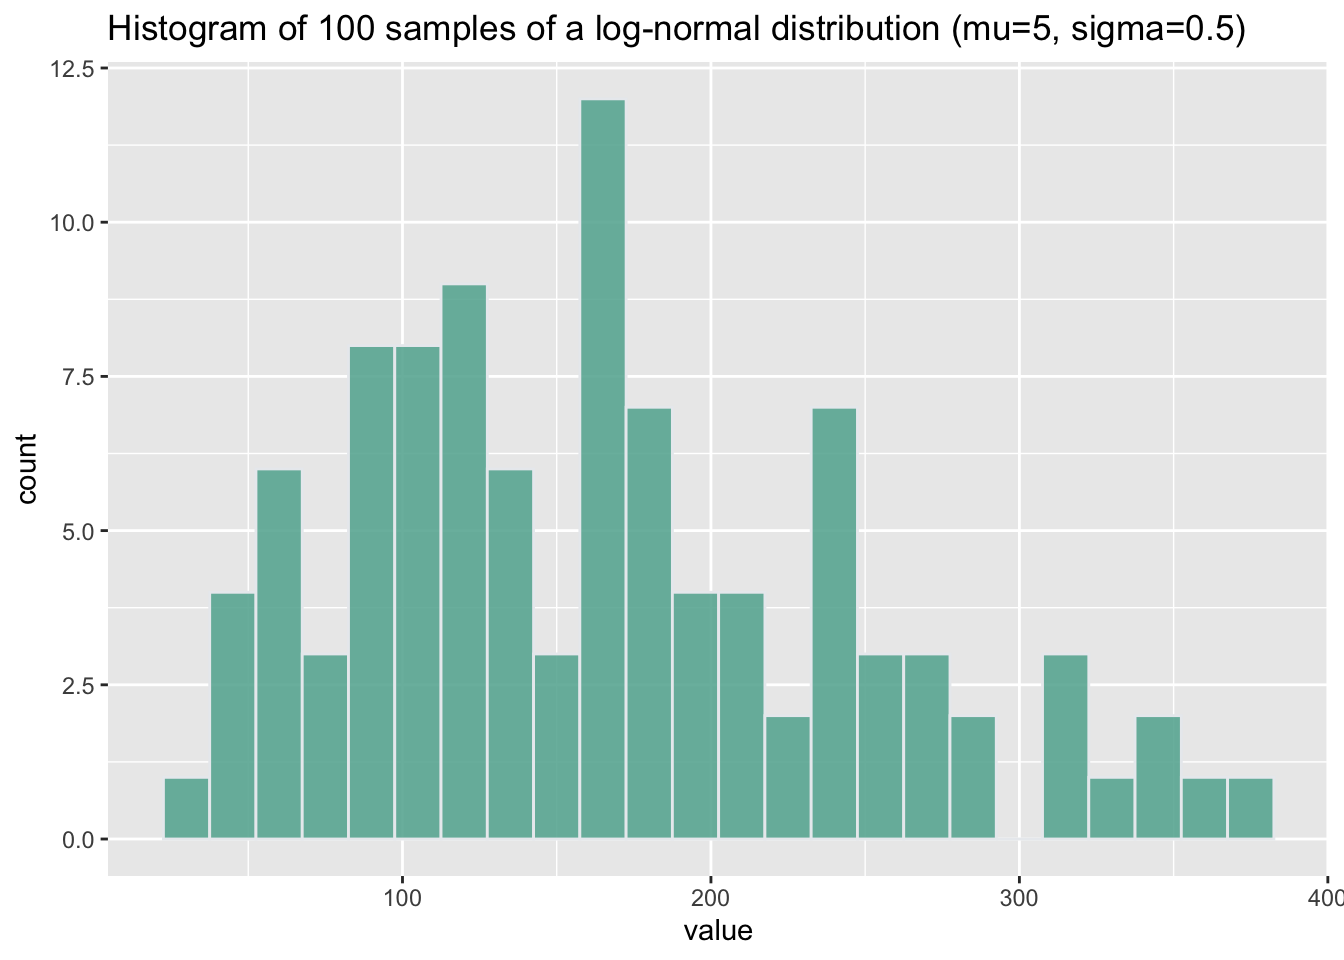
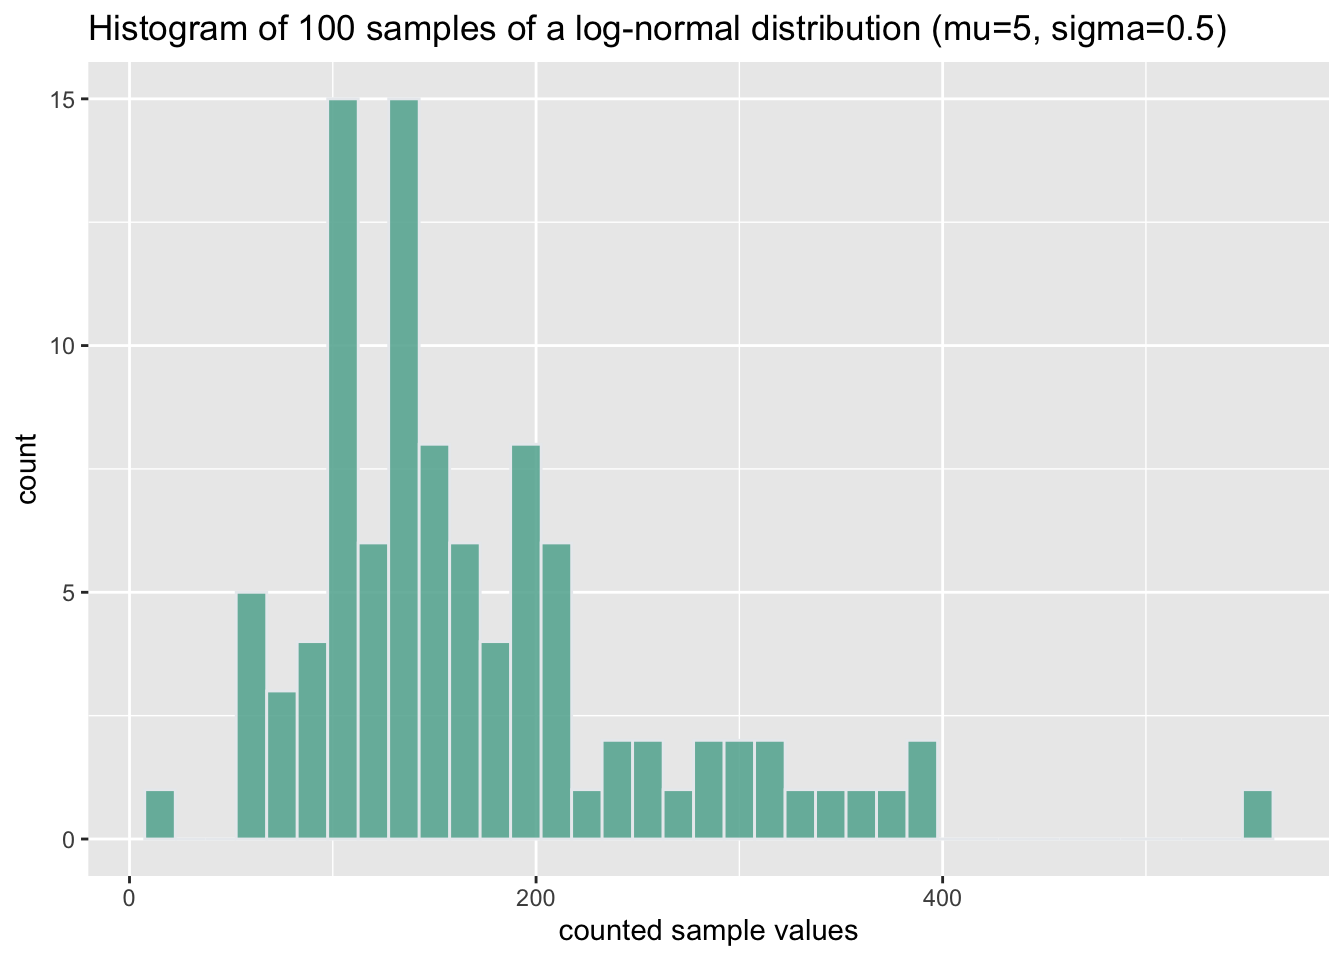
final commit

diff --git a/exercise_01_sta426_staebler_jann.html b/exercise_01_sta426_staebler_jann.html
@@ -101,6 +101,8 @@ pre > code.sourceCode > span > a:first-child::before { text-decoration: underlin
 
 </header>
 
+<section id="exercise-01-task-b-jann-stäbler" class="level1">
+<h1>Exercise 01 Task B |&nbsp;Jann Stäbler</h1>
 <section id="preliminaries" class="level2">
 <h2 class="anchored" data-anchor-id="preliminaries">Preliminaries</h2>
 <div class="cell">
@@ -108,72 +110,71 @@ pre > code.sourceCode > span > a:first-child::before { text-decoration: underlin
 <span id="cb1-2"><a href="#cb1-2" aria-hidden="true" tabindex="-1"></a><span class="fu">library</span>(ggplot2) </span>
 <span id="cb1-3"><a href="#cb1-3" aria-hidden="true" tabindex="-1"></a><span class="fu">library</span>(hrbrthemes)</span>
 <span id="cb1-4"><a href="#cb1-4" aria-hidden="true" tabindex="-1"></a><span class="fu">library</span>(dplyr)</span></code><button title="Copy to Clipboard" class="code-copy-button"><i class="bi"></i></button></pre></div>
-<div class="cell-output cell-output-stderr">
-<pre><code>
-Attaching package: 'dplyr'</code></pre>
-</div>
-<div class="cell-output cell-output-stderr">
-<pre><code>The following objects are masked from 'package:stats':
-
-    filter, lag</code></pre>
-</div>
-<div class="cell-output cell-output-stderr">
-<pre><code>The following objects are masked from 'package:base':
-
-    intersect, setdiff, setequal, union</code></pre>
-</div>
 </div>
 </section>
 <section id="part-i-sampling" class="level2">
 <h2 class="anchored" data-anchor-id="part-i-sampling">Part I: Sampling</h2>
 <p>Let’s sample 100 values from a log-normal distribution</p>
 <div class="cell">
-<div class="sourceCode cell-code" id="cb5"><pre class="sourceCode r code-with-copy"><code class="sourceCode r"><span id="cb5-1"><a href="#cb5-1" aria-hidden="true" tabindex="-1"></a>a <span class="ot">&lt;-</span> <span class="fu">rlnorm</span>(<span class="dv">100</span>, <span class="at">meanlog=</span><span class="dv">5</span>, <span class="at">sdlog=</span><span class="fl">0.5</span>) <span class="co"># a is our vector of the sample with mu=5 and sigma=0.5</span></span></code><button title="Copy to Clipboard" class="code-copy-button"><i class="bi"></i></button></pre></div>
+<div class="sourceCode cell-code" id="cb2"><pre class="sourceCode r code-with-copy"><code class="sourceCode r"><span id="cb2-1"><a href="#cb2-1" aria-hidden="true" tabindex="-1"></a>a <span class="ot">&lt;-</span> <span class="fu">rlnorm</span>(<span class="dv">100</span>, <span class="at">meanlog=</span><span class="dv">5</span>, <span class="at">sdlog=</span><span class="fl">0.5</span>) <span class="co"># a is our vector of the sample with mu=5 and sigma=0.5</span></span></code><button title="Copy to Clipboard" class="code-copy-button"><i class="bi"></i></button></pre></div>
 </div>
 </section>
 <section id="part-ii-plotting" class="level2">
 <h2 class="anchored" data-anchor-id="part-ii-plotting">Part II: Plotting</h2>
+<section id="original-values" class="level4">
+<h4 class="anchored" data-anchor-id="original-values">Original values</h4>
 <p>Let’s first plot the non-transformed histogram:</p>
 <div class="cell">
-<div class="sourceCode cell-code" id="cb6"><pre class="sourceCode r code-with-copy"><code class="sourceCode r"><span id="cb6-1"><a href="#cb6-1" aria-hidden="true" tabindex="-1"></a>df <span class="ot">&lt;-</span> <span class="fu">data.frame</span>(<span class="at">value=</span>a, <span class="at">A=</span><span class="fu">c</span>(<span class="fu">rep</span>(<span class="st">"A"</span>)))  <span class="co"># creating a small data frame</span></span>
-<span id="cb6-2"><a href="#cb6-2" aria-hidden="true" tabindex="-1"></a></span>
-<span id="cb6-3"><a href="#cb6-3" aria-hidden="true" tabindex="-1"></a><span class="co"># Histogram</span></span>
-<span id="cb6-4"><a href="#cb6-4" aria-hidden="true" tabindex="-1"></a><span class="fu">ggplot</span>(df, <span class="fu">aes</span>(<span class="at">x=</span>value)) <span class="sc">+</span> </span>
-<span id="cb6-5"><a href="#cb6-5" aria-hidden="true" tabindex="-1"></a>     <span class="fu">geom_histogram</span>( <span class="at">binwidth=</span><span class="dv">15</span>, <span class="at">fill=</span><span class="st">"#69b3a2"</span>, <span class="at">color=</span><span class="st">"#e9ecef"</span>, <span class="at">alpha=</span><span class="fl">0.9</span>) <span class="sc">+</span>    <span class="fu">ggtitle</span>(<span class="st">"Histogram of 100 samples of a log-normal distribution (mu=5, sigma=0.5)"</span>)  </span></code><button title="Copy to Clipboard" class="code-copy-button"><i class="bi"></i></button></pre></div>
+<div class="sourceCode cell-code" id="cb3"><pre class="sourceCode r code-with-copy"><code class="sourceCode r"><span id="cb3-1"><a href="#cb3-1" aria-hidden="true" tabindex="-1"></a>df <span class="ot">&lt;-</span> <span class="fu">data.frame</span>(<span class="at">value=</span>a, <span class="at">A=</span><span class="fu">c</span>(<span class="fu">rep</span>(<span class="st">"A"</span>)))  <span class="co"># creating a small data frame</span></span>
+<span id="cb3-2"><a href="#cb3-2" aria-hidden="true" tabindex="-1"></a></span>
+<span id="cb3-3"><a href="#cb3-3" aria-hidden="true" tabindex="-1"></a><span class="co"># Histogram</span></span>
+<span id="cb3-4"><a href="#cb3-4" aria-hidden="true" tabindex="-1"></a><span class="fu">ggplot</span>(df, <span class="fu">aes</span>(<span class="at">x=</span>value)) <span class="sc">+</span> </span>
+<span id="cb3-5"><a href="#cb3-5" aria-hidden="true" tabindex="-1"></a>     <span class="fu">geom_histogram</span>( <span class="at">binwidth=</span><span class="dv">15</span>, <span class="at">fill=</span><span class="st">"#69b3a2"</span>, <span class="at">color=</span><span class="st">"#e9ecef"</span>, <span class="at">alpha=</span><span class="fl">0.9</span>) <span class="sc">+</span>    <span class="fu">ggtitle</span>(<span class="st">"Histogram of 100 samples of a log-normal distribution (mu=5, sigma=0.5)"</span>)  <span class="sc">+</span></span>
+<span id="cb3-6"><a href="#cb3-6" aria-hidden="true" tabindex="-1"></a>  <span class="fu">labs</span>(<span class="at">x=</span><span class="st">"counted sample values"</span>)</span></code><button title="Copy to Clipboard" class="code-copy-button"><i class="bi"></i></button></pre></div>
 <div class="cell-output-display">
 <p><img src="exercise_01_sta426_staebler_jann_files/figure-html/unnamed-chunk-3-1.png" class="img-fluid" width="672"></p>
 </div>
-<div class="sourceCode cell-code" id="cb7"><pre class="sourceCode r code-with-copy"><code class="sourceCode r"><span id="cb7-1"><a href="#cb7-1" aria-hidden="true" tabindex="-1"></a><span class="co"># Violin plot</span></span>
-<span id="cb7-2"><a href="#cb7-2" aria-hidden="true" tabindex="-1"></a><span class="fu">ggplot</span>(df, <span class="fu">aes</span>(<span class="at">x=</span>value, <span class="at">y=</span>A)) <span class="sc">+</span> </span>
-<span id="cb7-3"><a href="#cb7-3" aria-hidden="true" tabindex="-1"></a>   <span class="fu">ggtitle</span>(<span class="st">"Violinplot of the data displayed in the histogram above."</span>)  <span class="sc">+</span></span>
-<span id="cb7-4"><a href="#cb7-4" aria-hidden="true" tabindex="-1"></a><span class="fu">geom_violin</span>()</span></code><button title="Copy to Clipboard" class="code-copy-button"><i class="bi"></i></button></pre></div>
+<div class="sourceCode cell-code" id="cb4"><pre class="sourceCode r code-with-copy"><code class="sourceCode r"><span id="cb4-1"><a href="#cb4-1" aria-hidden="true" tabindex="-1"></a><span class="co"># Violin plot</span></span>
+<span id="cb4-2"><a href="#cb4-2" aria-hidden="true" tabindex="-1"></a><span class="fu">ggplot</span>(df, <span class="fu">aes</span>(<span class="at">x=</span>value, <span class="at">y=</span>A)) <span class="sc">+</span> </span>
+<span id="cb4-3"><a href="#cb4-3" aria-hidden="true" tabindex="-1"></a>   <span class="fu">ggtitle</span>(<span class="st">"Violinplot of the data displayed in the histogram above."</span>)  <span class="sc">+</span></span>
+<span id="cb4-4"><a href="#cb4-4" aria-hidden="true" tabindex="-1"></a>  <span class="fu">labs</span>(<span class="at">x=</span><span class="st">"counted sample values"</span>, <span class="at">y=</span><span class="st">""</span>, <span class="at">subtitle=</span><span class="st">"The added boxplot shows the median and the quartiles"</span>) <span class="sc">+</span></span>
+<span id="cb4-5"><a href="#cb4-5" aria-hidden="true" tabindex="-1"></a><span class="fu">geom_violin</span>(<span class="at">fill=</span><span class="st">"lavender"</span>) <span class="sc">+</span></span>
+<span id="cb4-6"><a href="#cb4-6" aria-hidden="true" tabindex="-1"></a><span class="fu">geom_boxplot</span>(<span class="at">width=</span><span class="fl">0.1</span>) </span></code><button title="Copy to Clipboard" class="code-copy-button"><i class="bi"></i></button></pre></div>
 <div class="cell-output-display">
 <p><img src="exercise_01_sta426_staebler_jann_files/figure-html/unnamed-chunk-3-2.png" class="img-fluid" width="672"></p>
 </div>
 </div>
+</section>
+<section id="log-transformed-values" class="level4">
+<h4 class="anchored" data-anchor-id="log-transformed-values">log transformed values</h4>
 <p>Now we plot the log-transformed values:</p>
 <div class="cell">
-<div class="sourceCode cell-code" id="cb8"><pre class="sourceCode r code-with-copy"><code class="sourceCode r"><span id="cb8-1"><a href="#cb8-1" aria-hidden="true" tabindex="-1"></a><span class="fu">ggplot</span>(df, <span class="fu">aes</span>(<span class="at">x=</span><span class="fu">log</span>(a))) <span class="sc">+</span> </span>
-<span id="cb8-2"><a href="#cb8-2" aria-hidden="true" tabindex="-1"></a>     <span class="fu">geom_histogram</span>( <span class="at">binwidth=</span><span class="fl">0.1</span>, <span class="at">fill=</span><span class="st">"#69b3a2"</span>, <span class="at">color=</span><span class="st">"#e9ecef"</span>, <span class="at">alpha=</span><span class="fl">0.9</span>) <span class="sc">+</span>    <span class="fu">ggtitle</span>(<span class="st">"Histogram of 100 samples of a log-normal distribution (log-transformed) (mu=5, sigma=0.5)"</span>)</span></code><button title="Copy to Clipboard" class="code-copy-button"><i class="bi"></i></button></pre></div>
+<div class="sourceCode cell-code" id="cb5"><pre class="sourceCode r code-with-copy"><code class="sourceCode r"><span id="cb5-1"><a href="#cb5-1" aria-hidden="true" tabindex="-1"></a><span class="fu">ggplot</span>(df, <span class="fu">aes</span>(<span class="at">x=</span><span class="fu">log</span>(a))) <span class="sc">+</span> </span>
+<span id="cb5-2"><a href="#cb5-2" aria-hidden="true" tabindex="-1"></a>     <span class="fu">geom_histogram</span>( <span class="at">binwidth=</span><span class="fl">0.1</span>, <span class="at">fill=</span><span class="st">"#69b3a2"</span>, <span class="at">color=</span><span class="st">"#e9ecef"</span>, <span class="at">alpha=</span><span class="fl">0.9</span>) <span class="sc">+</span>    <span class="fu">ggtitle</span>(<span class="st">"Histogram of 100 samples of a log-normal distribution (log-transformed) (mu=5, sigma=0.5)"</span>) <span class="sc">+</span></span>
+<span id="cb5-3"><a href="#cb5-3" aria-hidden="true" tabindex="-1"></a>  <span class="fu">labs</span>(<span class="at">x=</span><span class="st">"counted sample values, log-transformed"</span>)</span></code><button title="Copy to Clipboard" class="code-copy-button"><i class="bi"></i></button></pre></div>
 <div class="cell-output-display">
 <p><img src="exercise_01_sta426_staebler_jann_files/figure-html/unnamed-chunk-4-1.png" class="img-fluid" width="672"></p>
 </div>
-<div class="sourceCode cell-code" id="cb9"><pre class="sourceCode r code-with-copy"><code class="sourceCode r"><span id="cb9-1"><a href="#cb9-1" aria-hidden="true" tabindex="-1"></a><span class="co"># Violin plot</span></span>
-<span id="cb9-2"><a href="#cb9-2" aria-hidden="true" tabindex="-1"></a><span class="fu">ggplot</span>(df, <span class="fu">aes</span>(<span class="at">x=</span><span class="fu">log</span>(value), <span class="at">y=</span>A)) <span class="sc">+</span> </span>
-<span id="cb9-3"><a href="#cb9-3" aria-hidden="true" tabindex="-1"></a>   <span class="fu">ggtitle</span>(<span class="st">"Violinplot of the data displayed in the histogram above."</span>)  <span class="sc">+</span></span>
-<span id="cb9-4"><a href="#cb9-4" aria-hidden="true" tabindex="-1"></a><span class="fu">geom_violin</span>()</span></code><button title="Copy to Clipboard" class="code-copy-button"><i class="bi"></i></button></pre></div>
+<div class="sourceCode cell-code" id="cb6"><pre class="sourceCode r code-with-copy"><code class="sourceCode r"><span id="cb6-1"><a href="#cb6-1" aria-hidden="true" tabindex="-1"></a><span class="co"># Violin plot</span></span>
+<span id="cb6-2"><a href="#cb6-2" aria-hidden="true" tabindex="-1"></a><span class="fu">ggplot</span>(df, <span class="fu">aes</span>(<span class="at">x=</span><span class="fu">log</span>(value), <span class="at">y=</span>A)) <span class="sc">+</span> </span>
+<span id="cb6-3"><a href="#cb6-3" aria-hidden="true" tabindex="-1"></a>   <span class="fu">ggtitle</span>(<span class="st">"Violinplot of the data displayed in the histogram above."</span>)  <span class="sc">+</span></span>
+<span id="cb6-4"><a href="#cb6-4" aria-hidden="true" tabindex="-1"></a><span class="fu">geom_violin</span>(<span class="at">fill=</span><span class="st">"lavenderblush"</span>) <span class="sc">+</span></span>
+<span id="cb6-5"><a href="#cb6-5" aria-hidden="true" tabindex="-1"></a>  <span class="fu">geom_boxplot</span>(<span class="at">width=</span><span class="fl">0.1</span>) <span class="sc">+</span></span>
+<span id="cb6-6"><a href="#cb6-6" aria-hidden="true" tabindex="-1"></a>  <span class="fu">labs</span>(<span class="at">x=</span><span class="st">"counted sample values, log-transformed"</span>, <span class="at">y=</span><span class="st">""</span>, <span class="at">subtitle=</span><span class="st">"The added boxplot shows the median and the quartiles"</span>)</span></code><button title="Copy to Clipboard" class="code-copy-button"><i class="bi"></i></button></pre></div>
 <div class="cell-output-display">
 <p><img src="exercise_01_sta426_staebler_jann_files/figure-html/unnamed-chunk-4-2.png" class="img-fluid" width="672"></p>
 </div>
 </div>
 <div class="cell">
-<div class="sourceCode cell-code" id="cb10"><pre class="sourceCode r code-with-copy"><code class="sourceCode r"><span id="cb10-1"><a href="#cb10-1" aria-hidden="true" tabindex="-1"></a>mean_df <span class="ot">&lt;-</span> <span class="fu">round</span>(<span class="fu">mean</span>(df<span class="sc">$</span>value)) <span class="co">#mean</span></span>
-<span id="cb10-2"><a href="#cb10-2" aria-hidden="true" tabindex="-1"></a>sd_df <span class="ot">&lt;-</span> <span class="fu">round</span>(<span class="fu">sd</span>(df<span class="sc">$</span>value)) <span class="co">#standard deviation</span></span></code><button title="Copy to Clipboard" class="code-copy-button"><i class="bi"></i></button></pre></div>
+<div class="sourceCode cell-code" id="cb7"><pre class="sourceCode r code-with-copy"><code class="sourceCode r"><span id="cb7-1"><a href="#cb7-1" aria-hidden="true" tabindex="-1"></a>mean_df <span class="ot">&lt;-</span> <span class="fu">round</span>(<span class="fu">mean</span>(df<span class="sc">$</span>value)) <span class="co">#mean</span></span>
+<span id="cb7-2"><a href="#cb7-2" aria-hidden="true" tabindex="-1"></a>sd_df <span class="ot">&lt;-</span> <span class="fu">round</span>(<span class="fu">sd</span>(df<span class="sc">$</span>value)) <span class="co">#standard deviation</span></span></code><button title="Copy to Clipboard" class="code-copy-button"><i class="bi"></i></button></pre></div>
 </div>
+</section>
 </section>
 <section id="part-iii-reporting-results" class="level2">
 <h2 class="anchored" data-anchor-id="part-iii-reporting-results">Part III: Reporting results</h2>
-<p>The rounded mean of the sampled values is <strong>166</strong> and the rounded standard deviation is <strong>81</strong>.</p>
+<p>The rounded mean of the sampled values is <strong>169</strong> and the rounded standard deviation is <strong>88</strong>.</p>
+</section>
 </section>
 
 </main>
